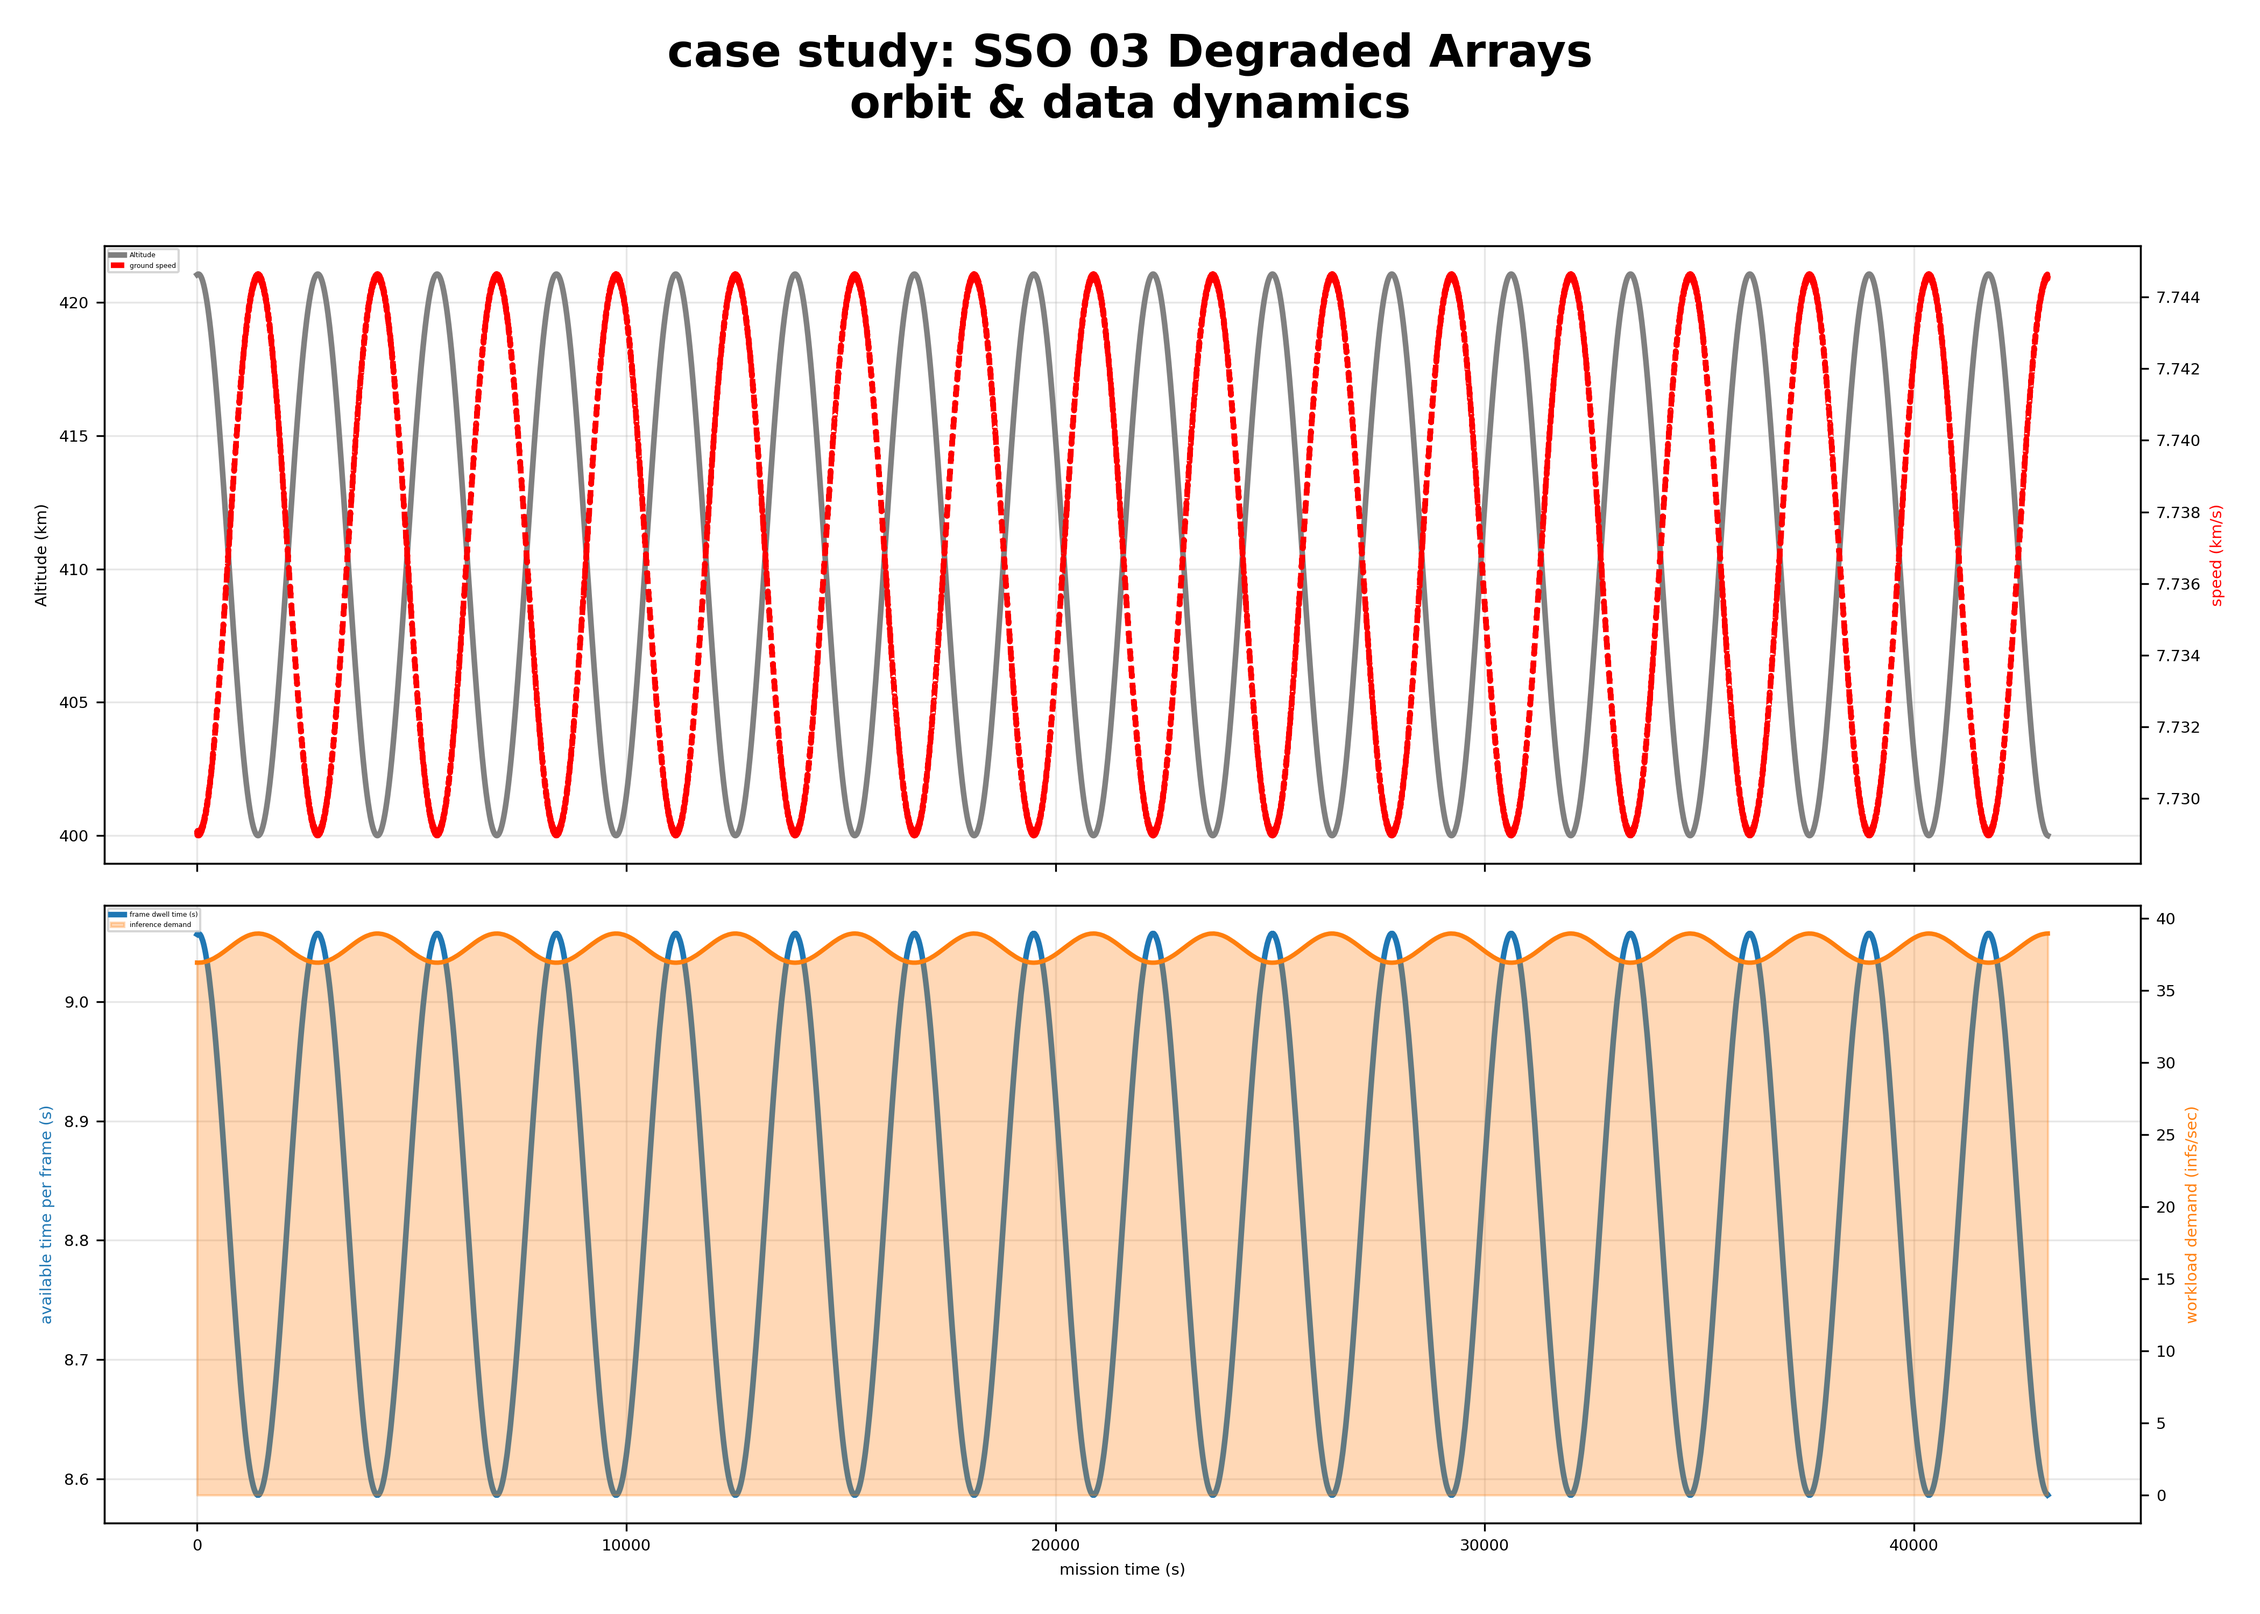
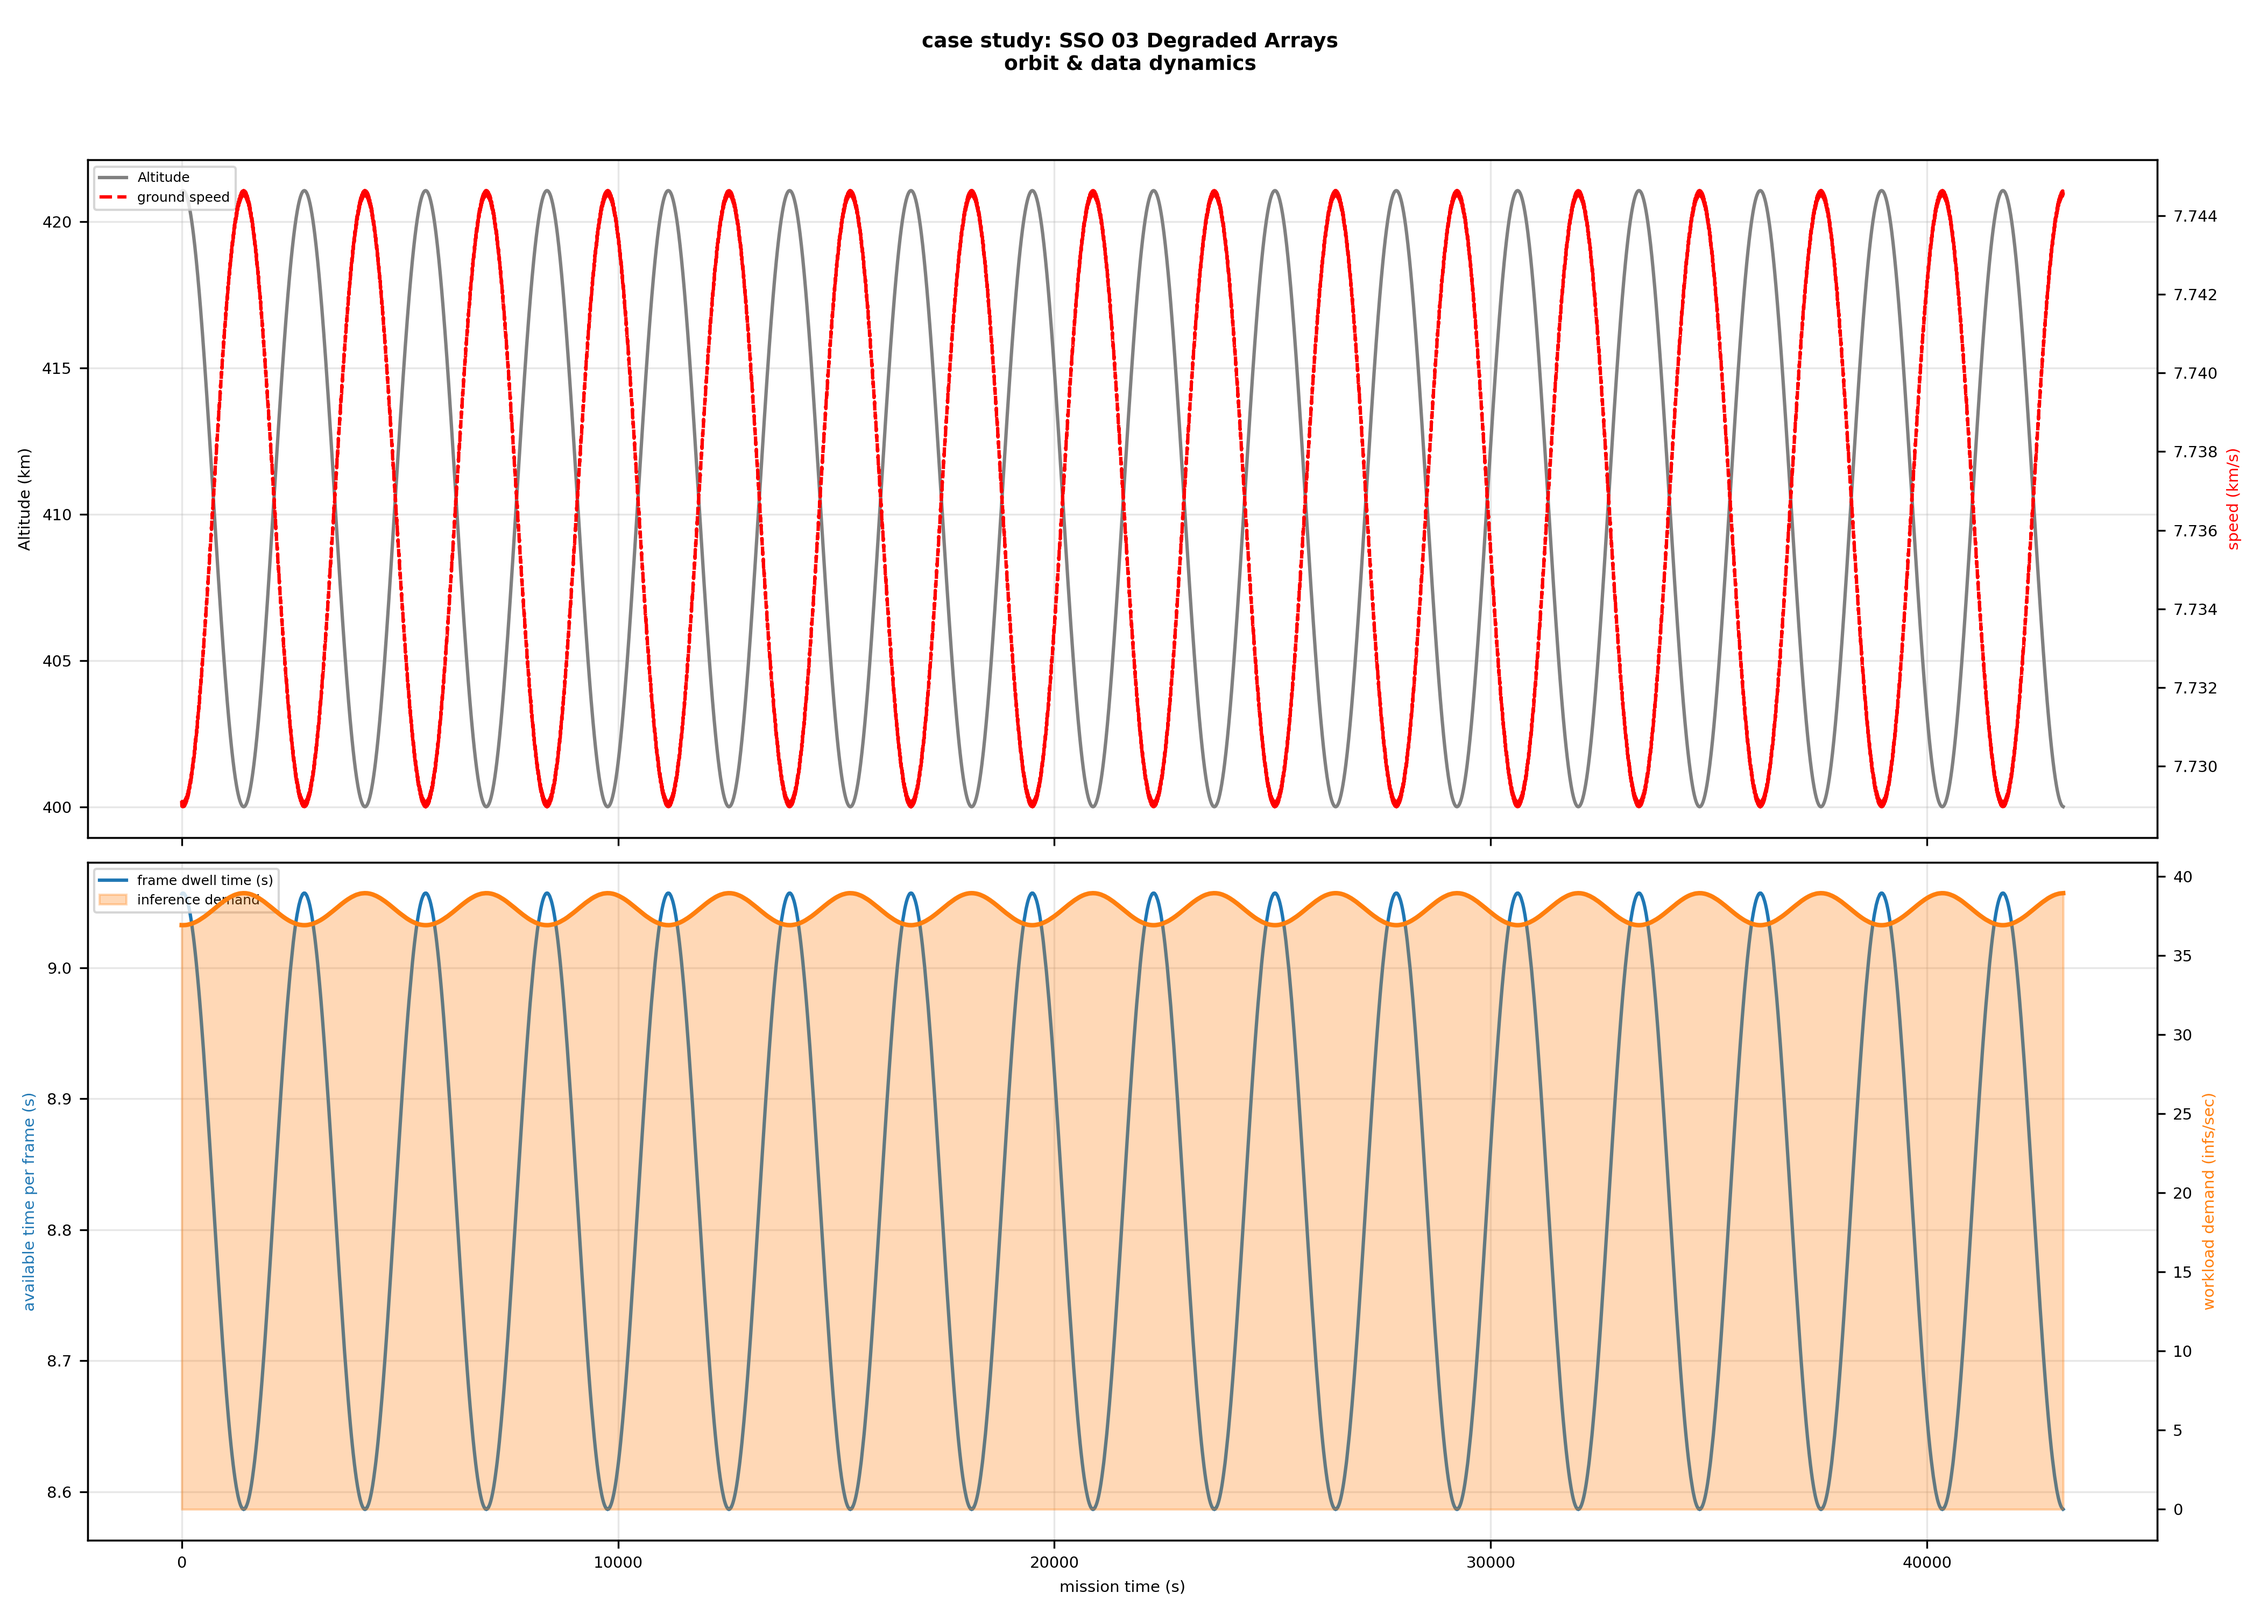
[results] color and fontsize updates on motivating plots

diff --git a/src/scripts/dynamic_selection_sims/plotting_utils.py b/src/scripts/dynamic_selection_sims/plotting_utils.py
@@ -3,31 +3,18 @@ import numpy as np
 import pandas as pd
 
 def set_plot_style():
+    plt.rcdefaults()  # reset any cached state before applying overrides
     plt.rcParams.update({
-        'font.size': 14,
-        'axes.titlesize': 18,
+        'font.size': 7,
+        'axes.titlesize': 9,
         'axes.labelsize': 7,
         'xtick.labelsize': 7,
         'ytick.labelsize': 7,
-        'legend.fontsize': 3,
-        'lines.linewidth': 2.5,
-        'figure.titlesize': 20,
+        'legend.fontsize': 6,
+        'lines.linewidth': 1.5,
+        'figure.titlesize': 9,
         'figure.titleweight': 'bold'
     })
-
-    """
-        plt.rcParams.update({
-        'font.size': 14,
-        'axes.titlesize': 18,
-        'axes.labelsize': 16,
-        'xtick.labelsize': 12,
-        'ytick.labelsize': 12,
-        'legend.fontsize': 12,
-        'lines.linewidth': 2.5,
-        'figure.titlesize': 20,
-        'figure.titleweight': 'bold'
-    })
-    """
 
 def _get_model_colors(model_names):
     # assigns consistent colors to models, forcing non-compute states to grey
@@ -113,7 +100,6 @@ def plot_mission(logs, naive_states, case_name, cfg, output_dir,
     
     ax2.plot(t_plot, logs['battery_wh'], color='tab:green', linewidth=3, label='Battery Charge (Dynamic)')
     
-    # Inject requested naive battery lines
     if plot_accuracy_baseline and 'High_Accuracy' in naive_states:
         ax2.plot(t_plot, naive_states['High_Accuracy']['logs_battery_wh'], 
                 color=baseline_colors['High_Accuracy'], linestyle='-.', alpha=0.5, linewidth=1.5, label='Battery (High Accuracy)')
@@ -137,15 +123,12 @@ def plot_mission(logs, naive_states, case_name, cfg, output_dir,
     ax2.set_xlabel('Mission Time (s)')
     ax2.grid(True, alpha=0.3)
     
-    # Moved the legend slightly to accommodate the extra lines without covering data
-    ax2.legend(loc='upper left', frameon=True, framealpha=0.85, fontsize=10)
+    ax2.legend(loc='upper left', frameon=True, framealpha=0.85)
 
-    # Segmented yield & naive baselines
     ax2_t = ax2.twinx()
     color_dict = _get_model_colors(logs['model_name'])
     handles, labels = _plot_segmented_line(ax2_t, t_plot, logs['cum_correct'], logs['model_name'], color_dict, ylabel="Cumulative Correct Inferences")
     
-    # Inject requested naive yield lines
     if plot_accuracy_baseline and 'High_Accuracy' in naive_states:
         line, = ax2_t.plot(t_plot, naive_states['High_Accuracy']['logs_cum_correct'], 
                         color=baseline_colors['High_Accuracy'], linestyle='--', alpha=0.8, label='Yield (High Accuracy)')
@@ -288,8 +271,9 @@ def plot_single(logs, case_name, output_dir):
     """
     set_plot_style()
 
-    COLOR_ORBIT = '#861F41'  
-    COLOR_SPEED = '#E5751F' 
+    # --- Hokie colors ---
+    COLOR_ORBIT = '#861F41'  # Hokie Stone maroon
+    COLOR_SPEED = '#E5751F'  # Hokie orange
     
     t = np.array(logs['time_rel'])
     alt = np.array(logs['alt_km'])
@@ -299,52 +283,47 @@ def plot_single(logs, case_name, output_dir):
     mean_alt = np.mean(alt)
     
     # 2. Find zero-crossings of (alt - mean_alt)
-    # This isolates the exact midpoints of the altitude curve
     alt_centered = alt - mean_alt
     crossings = np.where(np.diff(np.sign(alt_centered)))[0]
     
     # We need at least 3 crossings to capture a full orbit from the exact same phase
     if len(crossings) >= 3:
-        # Pick the first crossing as start, and the crossing 2 steps ahead as end (one full period)
         start_idx = crossings[0]
         end_idx = crossings[2] 
     else:
-        # Fallback if the data is shorter than one orbit
         start_idx = 0
         end_idx = len(t) - 1
         print(f"[warn] Could not isolate a full orbit for {case_name}. Plotting available data.")
         
     t_slice = t[start_idx:end_idx]
-    t_slice_norm = t_slice - t_slice[0] # Normalize time to start at 0 for the plot
+    t_slice_norm = t_slice - t_slice[0]
     alt_slice = alt[start_idx:end_idx]
     speed_slice = speed[start_idx:end_idx]
     
-    fig, ax1 = plt.subplots(figsize=(10, 5))
+    fig, ax1 = plt.subplots(figsize=(3.5, 2.4))
     
     # Plot Altitude on the left axis
     ax1.set_xlabel('Time (s)')
     ax1.set_ylabel('Orbital Altitude (km)', color=COLOR_ORBIT)
-    line1, = ax1.plot(t_slice_norm, alt_slice, color=COLOR_ORBIT, linewidth=3.5, label='Altitude')
+    line1, = ax1.plot(t_slice_norm, alt_slice, color=COLOR_ORBIT, linewidth=1.5, label='Altitude')
     ax1.tick_params(axis='y', labelcolor=COLOR_ORBIT)
     ax1.grid(True, alpha=0.3)
     
     # Plot Speed on the right axis
     ax2 = ax1.twinx()  
     ax2.set_ylabel('Ground Track Speed (km/s)', color=COLOR_SPEED)  
-    line2, = ax2.plot(t_slice_norm, speed_slice, color=COLOR_SPEED, linewidth=3.5, linestyle='--', label='Ground Speed')
+    line2, = ax2.plot(t_slice_norm, speed_slice, color=COLOR_SPEED, linewidth=1.5, linestyle='--', label='Ground Speed')
     ax2.tick_params(axis='y', labelcolor=COLOR_SPEED)
     
-    # Clean up limits to make the inverse relationship pop visually
     alt_span = np.max(alt_slice) - np.min(alt_slice)
     ax1.set_ylim(np.min(alt_slice) - (0.1 * alt_span), np.max(alt_slice) + (0.1 * alt_span))
     
     spd_span = np.max(speed_slice) - np.min(speed_slice)
     ax2.set_ylim(np.min(speed_slice) - (0.1 * spd_span), np.max(speed_slice) + (0.1 * spd_span))
     
-    # Combined Floating Legend
     lines = [line1, line2]
     labels = [l.get_label() for l in lines]
-    ax1.legend(lines, labels, loc='upper center', bbox_to_anchor=(0.5, 1.15), ncol=2, frameon=False)
+    ax1.legend(lines, labels, loc='upper center', bbox_to_anchor=(0.5, 1.18), ncol=2, frameon=False)
     
     plt.tight_layout()
     save_path = output_dir / f"{case_name}_orbit_motivation.png"
@@ -354,11 +333,10 @@ def plot_single(logs, case_name, output_dir):
 def plot_static_failure_motivation(logs, naive_states, case_name, cfg, output_dir):
     """
     Isolates and plots the failure mode of a static, high-accuracy model deployment 
-    during power constraints. Uses VT-inspired Magma colors.
+    during power constraints. Uses Hokie colors.
     """
     set_plot_style()
     
-    # Extract the static High_Accuracy baseline
     if 'High_Accuracy' not in naive_states:
         print(f"[warn] High_Accuracy baseline missing for {case_name}. Cannot plot failure.")
         return
@@ -368,46 +346,40 @@ def plot_static_failure_motivation(logs, naive_states, case_name, cfg, output_di
     yield_arr = np.array(naive_states['High_Accuracy']['logs_cum_correct'])
     lit = np.array(logs['is_lit'])
     
-    # Create a compact 2-pane plot suitable for a paper column
-    fig, (ax1, ax2) = plt.subplots(2, 1, figsize=(6, 5), sharex=True, gridspec_kw={'hspace': 0.15})
+    fig, (ax1, ax2) = plt.subplots(2, 1, figsize=(3.5, 4.0), sharex=True, gridspec_kw={'hspace': 0.15})
     
-    # --- Colors (Hokie / Magma) ---
-    cmap = plt.get_cmap('magma')
-    COLOR_BATT = '#861F41'   # Deep maroon/purple from the lower end of magma
-    COLOR_YIELD = '#E5751F'  # Vibrant orange from the upper-middle of magma
-    COLOR_LINES = '#75787b'
+    # --- Hokie colors ---
+    COLOR_BATT = '#861F41'   # Hokie maroon
+    COLOR_YIELD = '#E5751F'  # Hokie orange
+    COLOR_LINES = '#75787b'  # neutral gray
     
     # --- Top Pane: Battery & Thresholds ---
-    ax1.plot(t_plot, battery, color=COLOR_BATT, linewidth=2.5, label='Battery (Static)')
+    ax1.plot(t_plot, battery, color=COLOR_BATT, linewidth=1.5, label='Battery (Static)')
     
     lock_limit = cfg['battery_capacity_wh'] * cfg['compute_disable_pct']
     resume_limit = cfg['battery_capacity_wh'] * cfg['compute_enable_pct']
     
-    ax1.axhline(lock_limit, color='#51c29b', linestyle=':', linewidth=1.5, label='Lockout Threshold')
-    ax1.axhline(resume_limit, color='#cd1d5b', linestyle='--', linewidth=1.5, label='Resume Threshold')
+    ax1.axhline(lock_limit, color='#51c29b', linestyle=':', linewidth=1.0, label='Lockout Threshold')
+    ax1.axhline(resume_limit, color='#cd1d5b', linestyle='--', linewidth=1.0, label='Resume Threshold')
     
-    # Auto-detect the failure point (first time battery dips below lockout)
     failure_idx = np.where(battery < lock_limit)[0]
     if len(failure_idx) > 0:
-        failure_time = t_plot[failure_idx[0]]
-        # Draw vertical line across both panes
-        ax1.axvline(x=15000, color=COLOR_LINES, linestyle='-.', linewidth=1.5, label='Power Degredation')
-        ax2.axvline(x=15000, color=COLOR_LINES, linestyle='-.', linewidth=1.5)
+        ax1.axvline(x=15000, color=COLOR_LINES, linestyle='-.', linewidth=1.0, label='Power Degradation')
+        ax2.axvline(x=15000, color=COLOR_LINES, linestyle='-.', linewidth=1.0)
     
-    # Shade sunlight intervals
     ax1.fill_between(t_plot, 0, 1, where=(lit > 0.5), transform=ax1.get_xaxis_transform(), 
                     color='gold', alpha=0.15, label='Sunlight')
     
     ax1.set_ylabel('Battery (Wh)')
-    ax1.legend(loc='upper right', frameon=True, framealpha=0.9, fontsize=8)
+    ax1.legend(loc='upper right', frameon=True, framealpha=0.9)
     ax1.grid(True, alpha=0.3)
     
     # --- Bottom Pane: Cumulative Yield ---
-    ax2.plot(t_plot, yield_arr, color=COLOR_YIELD, linewidth=2.5, label='Cumulative Yield')
+    ax2.plot(t_plot, yield_arr, color=COLOR_YIELD, linewidth=1.5, label='Cumulative Yield')
     
     ax2.set_ylabel('Total Inferences')
     ax2.set_xlabel('Mission Time (s)')
-    ax2.legend(loc='lower right', frameon=True, framealpha=0.9, fontsize=8)
+    ax2.legend(loc='lower right', frameon=True, framealpha=0.9)
     ax2.grid(True, alpha=0.3)
     
     plt.tight_layout()

diff --git a/src/scripts/dynamic_selection_sims/selection_case_studies.py b/src/scripts/dynamic_selection_sims/selection_case_studies.py
@@ -413,7 +413,7 @@ class ContinuousSatSim:
         ## Some one-off plots for motivation and whatnot :)
         # plot_naive_blitz(logs, naive_states, case_name, cfg, self.output_dir)
         # plot_single(logs, case_name, self.output_dir)
-        plot_static_failure_motivation(logs, naive_states, case_name, cfg, self.output_dir)
+        # plot_static_failure_motivation(logs, naive_states, case_name, cfg, self.output_dir)
 
         return logs
 
